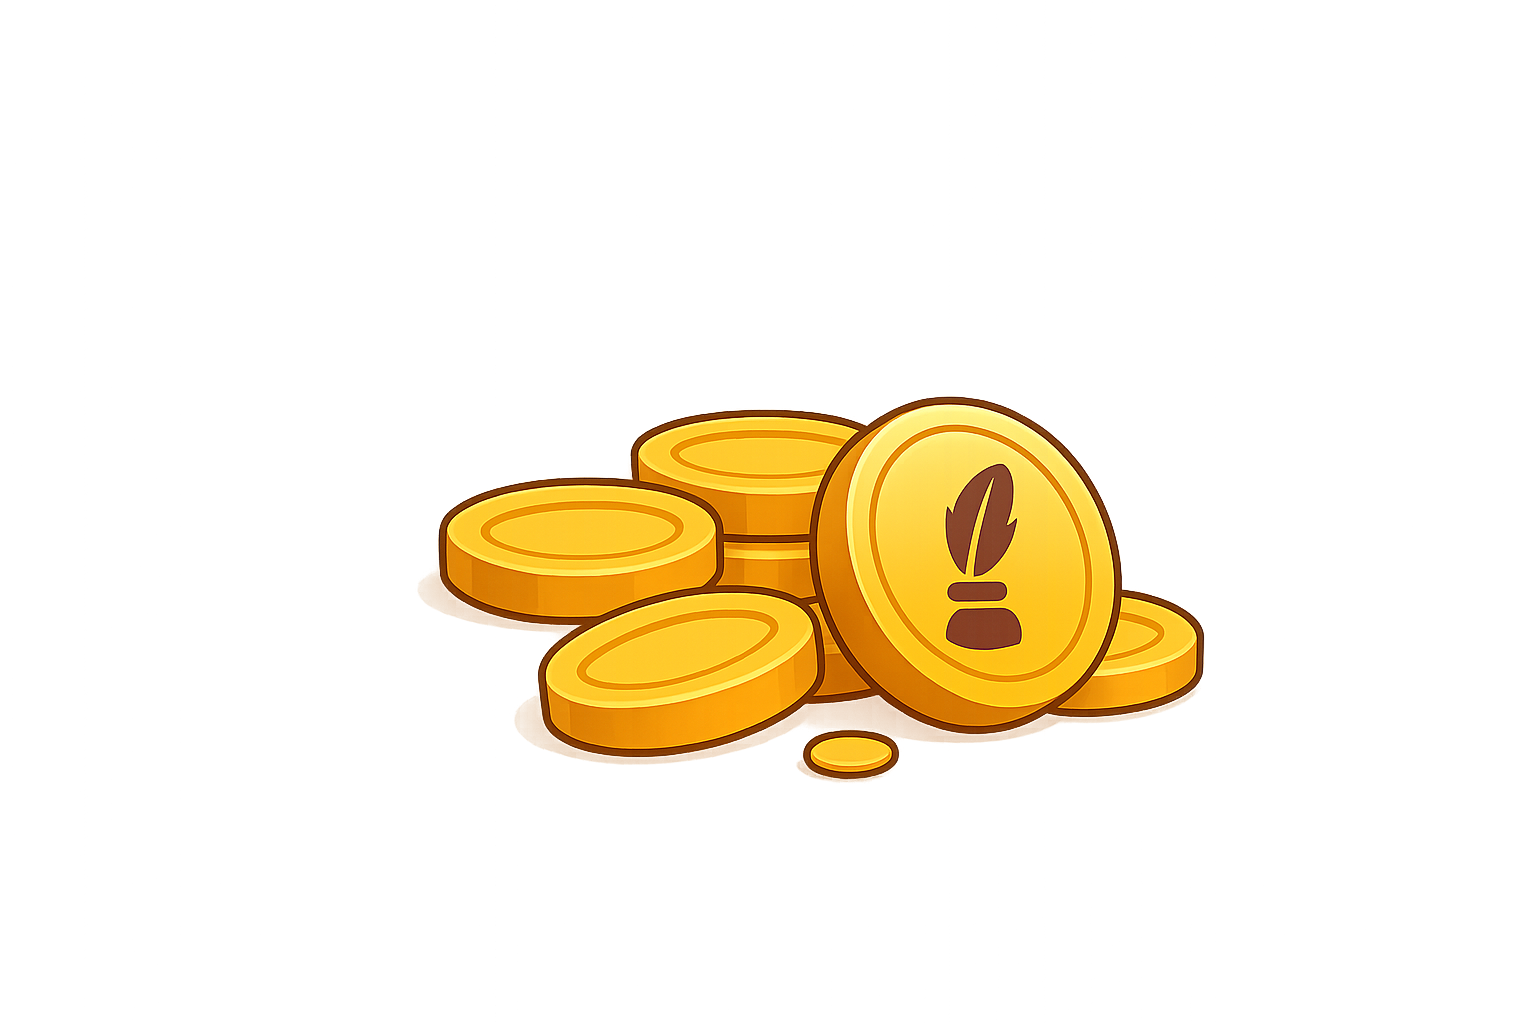
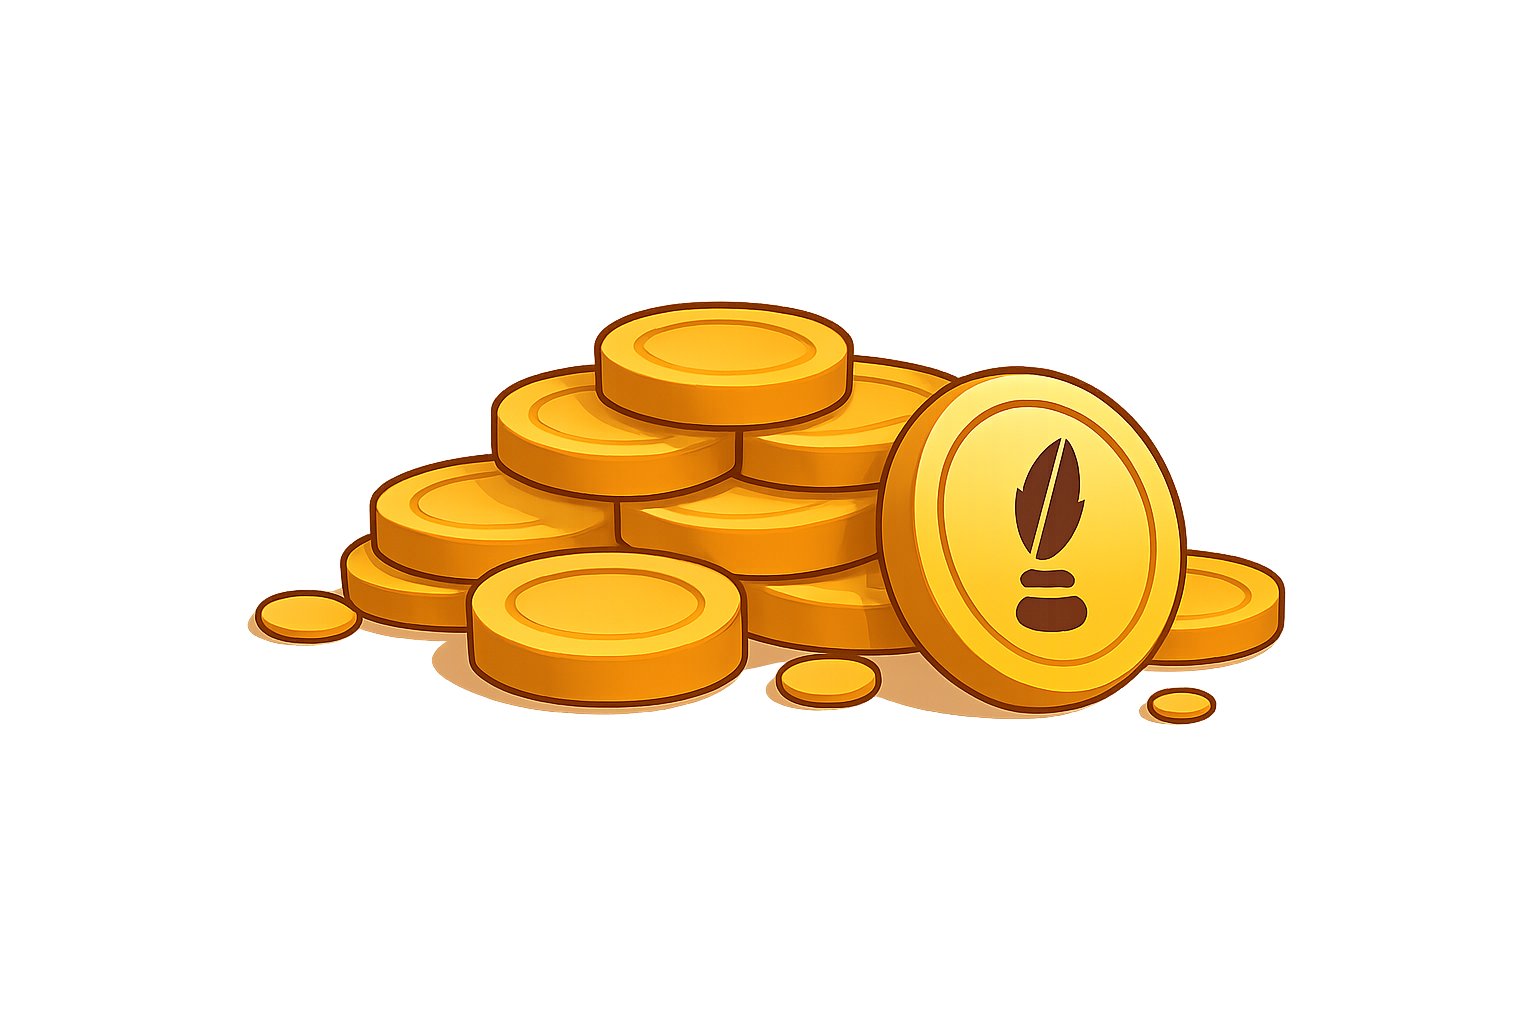
Update new UI deposite

Changed region(s): [[0.1562, 0.2812, 0.8438, 0.7812]]

diff --git a/src/pages/Deposite/CoinCard.tsx b/src/pages/Deposite/CoinCard.tsx
@@ -1,10 +1,12 @@
-// CoinCard.tsx
 import Button from "../../components/ButtonComponent";
 
 export type Coin = {
   amount: number;
   image: string;
-  price: number;
+  price: number; 
+  bonus?: number; 
+  highlight?: boolean;
+  note?: string;
 };
 
 export type CoinProps = {
@@ -13,51 +15,100 @@ export type CoinProps = {
   isLoading?: boolean;
 };
 
+const vnd = (n: number) =>
+  n.toLocaleString("vi-VN", { maximumFractionDigits: 0 }) + " VND";
+
 export const CoinCard = ({ coin, onBuyClick, isLoading }: CoinProps) => {
   return (
     <div
       className={[
-        "group relative flex w-full cursor-default select-none flex-col items-center justify-between gap-3 rounded-xl p-5",
-        "bg-white border border-zinc-200 shadow-sm transition-all duration-200 ease-out hover:shadow-md hover:-translate-y-0.5",
-        "dark:bg-gradient-to-b dark:from-zinc-800 dark:to-zinc-900 dark:border-zinc-700",
+        "group relative w-full overflow-hidden",
+        "rounded-2xl p-4",
+        "bg-white/60 dark:bg-zinc-900/60 backdrop-blur",
+        "border border-white/50 dark:border-white/10",
+        "shadow-[0_4px_18px_rgba(0,0,0,0.06)] dark:shadow-[0_4px_18px_rgba(0,0,0,0.35)]",
+        "transition-all duration-300 ease-out hover:-translate-y-[6px]",
+        "hover:shadow-[0_10px_30px_rgba(0,0,0,0.10)] dark:hover:shadow-[0_12px_36px_rgba(0,0,0,0.5)]",
       ].join(" ")}
+      style={{ transform: "translateZ(0)" }}
     >
-      <div className="rounded-full bg-zinc-100 p-3.5 shadow-inner dark:bg-zinc-700/40">
-        <img
-          src={coin.image}
-          alt="coin"
-          className="w-16 h-16 sm:w-20 sm:h-20 object-contain drop-shadow"
-          draggable={false}
-        />
-      </div>
+      {/* viền mờ bên trong */}
+      <div className="pointer-events-none absolute inset-0 rounded-2xl ring-1 ring-inset ring-white/40 dark:ring-white/5" />
+      <div
+        className="pointer-events-none absolute -inset-20 opacity-0 blur-2xl transition-opacity duration-500 group-hover:opacity-100"
+        style={{
+          background:
+            "radial-gradient(30rem 20rem at 110% 0%, rgba(255,103,64,0.18), transparent 60%)",
+        }}
+      />
 
-      <div className="text-center">
-        <div className="text-gray-900 font-bold text-lg tracking-wide dark:text-white">
-          {coin.amount.toLocaleString("vi-VN")} <span className="opacity-90">Xu</span>
+      {/* Header nhỏ: ảnh + meta */}
+      <div className="flex items-center gap-3">
+        <div className="grid place-items-center rounded-xl p-2 ring-1 ring-black/5 dark:ring-white/10 bg-white/70 dark:bg-white/5">
+          <img
+            src={coin.image}
+            alt={`${coin.amount} xu`}
+            className="h-10 w-10 sm:h-12 sm:w-12 object-contain drop-shadow"
+            draggable={false}
+          />
         </div>
+
+        <div className="min-w-0">
+          <div className="text-[13px] text-zinc-500 dark:text-zinc-400">Gói xu</div>
+
+          <div className="text-zinc-900 dark:text-white font-extrabold text-base tracking-wide">
+            {coin.amount.toLocaleString("vi-VN")}
+            {typeof coin.bonus === "number" && coin.bonus > 0 && (
+              <span
+                className="ml-2 align-baseline text-sm font-extrabold text-emerald-500"
+                aria-label={`Tặng thêm ${coin.bonus} xu`}
+                title={`Tặng thêm ${coin.bonus} xu`}
+              >
+                +{coin.bonus}
+              </span>
+            )}
+            <span className="opacity-80"> xu</span>
+          </div>
+        </div>
+
+        {coin.note ? (
+          <div className="ml-auto">
+            <span className="inline-flex items-center rounded-lg px-2 py-1 text-[11px] font-medium
+              bg-white/70 dark:bg-white/10 ring-1 ring-black/5 dark:ring-white/10 text-zinc-600 dark:text-zinc-300">
+              {coin.note}
+            </span>
+          </div>
+        ) : null}
       </div>
 
-      <Button
-        onClick={onBuyClick}
-        isLoading={isLoading}
-        aria-label={`Nạp ${coin.amount} xu với giá ${coin.price.toLocaleString("vi-VN")} VND`}
-        className={[
-          "relative w-full rounded-full border-none text-white font-semibold",
-          "text-sm px-4 py-1.5",
-          "!bg-gradient-to-r from-[#ff512f] via-[#ff6740] to-[#ff9966]",
-          "hover:from-[#ff6a3d] hover:via-[#ff6740] hover:to-[#ffa177]",
-          "shadow-[0_10px_24px_rgba(255,103,64,0.45)] hover:shadow-[0_14px_32px_rgba(255,103,64,0.60)]",
-          "transition-colors duration-300",
-          "focus-visible:outline-none focus-visible:ring-2 focus-visible:ring-[#ff784f]/70",
-          "overflow-hidden before:content-[''] before:absolute before:inset-0",
-          "before:bg-[radial-gradient(120%_60%_at_0%_0%,rgba(255,255,255,0.22),transparent_55%)]",
-          "before:opacity-0 hover:before:opacity-100 before:transition-opacity before:duration-300"
-        ].join(" ")}
-      >
-        {coin.price.toLocaleString("vi-VN")} VND
-      </Button>
+      <div className="my-3 h-px w-full bg-gradient-to-r from-transparent via-black/10 to-transparent dark:via-white/10" />
 
-      <div className="pointer-events-none absolute inset-x-0 top-0 h-1 rounded-t-xl bg-black/5 opacity-0 dark:bg-white/5" />
+      <div className="flex items-end justify-between gap-3">
+        <div>
+          <div className="text-[12px] text-zinc-500 dark:text-zinc-400">Giá</div>
+          <div className="text-[15px] font-semibold text-zinc-900 dark:text-white tabular-nums">
+            {vnd(coin.price)}
+          </div>
+        </div>
+
+        <Button
+          onClick={onBuyClick}
+          isLoading={isLoading}
+          aria-label={`Nạp ${coin.amount} xu${coin.bonus ? ` (+${coin.bonus})` : ""} với giá ${coin.price.toLocaleString("vi-VN")} VND`}
+          className={[
+            "relative rounded-full border-none text-white font-semibold",
+            "text-xs px-3.5 py-1.5",
+            "min-w-[90px] justify-center",
+            "!bg-gradient-to-r from-[#ff512f] via-[#ff6740] to-[#ff9966]",
+            "hover:from-[#ff6a3d] hover:via-[#ff6740] hover:to-[#ffa177]",
+            "shadow-[0_6px_18px_rgba(255,103,64,0.35)] hover:shadow-[0_10px_28px_rgba(255,103,64,0.5)]",
+            "transition-all duration-300",
+            "focus-visible:outline-none focus-visible:ring-2 focus-visible:ring-[#ff784f]/70",
+          ].join(" ")}
+        >
+          Nạp ngay
+        </Button>
+      </div>
     </div>
   );
 };

diff --git a/src/pages/Deposite/Deposite.tsx b/src/pages/Deposite/Deposite.tsx
@@ -5,22 +5,23 @@ import Coin10 from "../../assets/img/Transaction/coin-10.png";
 import Coin20 from "../../assets/img/Transaction/coin-20.png";
 import Coin50 from "../../assets/img/Transaction/coin-50.png";
 import Coin100 from "../../assets/img/Transaction/coin-100.png";
+import Coin200 from "../../assets/img/Transaction/coin-200.png";
 import Coin500 from "../../assets/img/Transaction/coin-500.png";
-import Coin1000 from "../../assets/img/Transaction/coin-1000.png";
 import { useAuth } from "../../hooks/useAuth";
 import { CoinCard, type Coin } from "./CoinCard";
 import { Withdraw } from "./Withdraw/Withdraw";
 import { Coins } from "lucide-react";
 
-const depositeCoinOptions: Coin[] = [
-  { amount: 10, image: Coin20, price: 10000 },
-  { amount: 50, image: Coin50, price: 50000 },
-  { amount: 100, image: Coin100, price: 100000 },
-  { amount: 500, image: Coin500, price: 500000 },
-  { amount: 1000, image: Coin1000, price: 1000000 },
-];
-
 type tabType = "Deposite" | "Withdraw";
+
+const depositeCoinOptions: Coin[] = [
+  { amount: 10, image: Coin10, price: 10000,  note: "Dùng thử" },
+  { amount: 20, image: Coin20, price: 20000,  note: "Nhỏ gọn" },
+  { amount: 50, image: Coin50, price: 50000,  note: "Tiện lợi",         bonus: 1 },
+  { amount: 100, image: Coin100, price: 100000, note: "Tặng xu sự kiện", bonus: 3 },
+  { amount: 200, image: Coin200, price: 200000, note: "Đọc dài ngày",    bonus: 7 },
+  { amount: 500, image: Coin500, price: 500000, note: "Cho tín đồ INW",  bonus: 18 },
+];
 
 export const Deposite = () => {
   const { auth } = useAuth();
@@ -29,15 +30,11 @@ export const Deposite = () => {
 
   const rechargeMutation = useMutation({
     mutationFn: QRCheckIn,
-    onMutate: (data) => {
-      setSelectedAmount(data.coinAmount);
-    },
+    onMutate: (data: { coinAmount: number }) => setSelectedAmount(data.coinAmount),
     onSuccess: (data) => {
       window.open(data.data.checkoutUrl, "_self");
     },
-    onSettled: () => {
-      setSelectedAmount(null);
-    },
+    onSettled: () => setSelectedAmount(null),
   });
 
   const handleBuyClick = (amount: number) => {
@@ -47,30 +44,22 @@ export const Deposite = () => {
   const tabContent = useMemo(() => {
     if (tab === "Deposite") {
       return (
-        <div className="mt-6 flex flex-col items-center gap-8">
-          <div className="flex justify-center gap-8">
-            {depositeCoinOptions.slice(0, 3).map((coin, index) => (
-              <div key={`top-${index}`} className="w-[180px] sm:w-[200px]">
-                <CoinCard
-                  coin={coin}
-                  onBuyClick={() => handleBuyClick(coin.amount)}
-                  isLoading={rechargeMutation.isPending && selectedAmount === coin.amount}
-                />
-              </div>
+        <>
+          <div className="mt-6 grid grid-cols-1 sm:grid-cols-2 lg:grid-cols-3 2xl:grid-cols-6 gap-4">
+            {depositeCoinOptions.map((coin) => (
+              <CoinCard
+                key={coin.amount}
+                coin={coin}
+                onBuyClick={() => handleBuyClick(coin.amount)}
+                isLoading={rechargeMutation.isPending && selectedAmount === coin.amount}
+              />
             ))}
           </div>
-          <div className="flex justify-center gap-8">
-            {depositeCoinOptions.slice(3, 5).map((coin, index) => (
-              <div key={`bottom-${index}`} className="w-[180px] sm:w-[200px]">
-                <CoinCard
-                  coin={coin}
-                  onBuyClick={() => handleBuyClick(coin.amount)}
-                  isLoading={rechargeMutation.isPending && selectedAmount === coin.amount}
-                />
-              </div>
-            ))}
+
+          <div className="mt-6 text-xs text-zinc-500 dark:text-zinc-400">
+            * Thanh toán an toàn qua PayOS. Xu sẽ cộng ngay sau khi giao dịch thành công.
           </div>
-        </div>
+        </>
       );
     }
     return <Withdraw />;
@@ -117,7 +106,6 @@ export const Deposite = () => {
               </div>
             </nav>
           </div>
-
           <div className="inline-flex items-center gap-1.5 rounded-lg border border-zinc-300 bg-white px-2.5 py-1.5 shadow-sm
                   dark:border-zinc-700 dark:bg-zinc-800/80">
             <Coins className="h-4 w-4 text-amber-500 dark:text-amber-400" strokeWidth={2} />

diff --git a/src/pages/Deposite/Withdraw/Withdraw.tsx b/src/pages/Deposite/Withdraw/Withdraw.tsx
@@ -3,7 +3,7 @@ import Coin20 from "../../../assets/img/Transaction/coin-20.png";
 import Coin50 from "../../../assets/img/Transaction/coin-50.png";
 import Coin100 from "../../../assets/img/Transaction/coin-100.png";
 import Coin500 from "../../../assets/img/Transaction/coin-500.png";
-import Coin1000 from "../../../assets/img/Transaction/coin-1000.png";
+import Coin1000 from "../../../assets/img/Transaction/coin-200.png";
 import { WithdrawCard, type Coin } from "./WithdrawCard";
 import Button from "../../../components/ButtonComponent";
 import { useMutation, useQuery } from "@tanstack/react-query";
